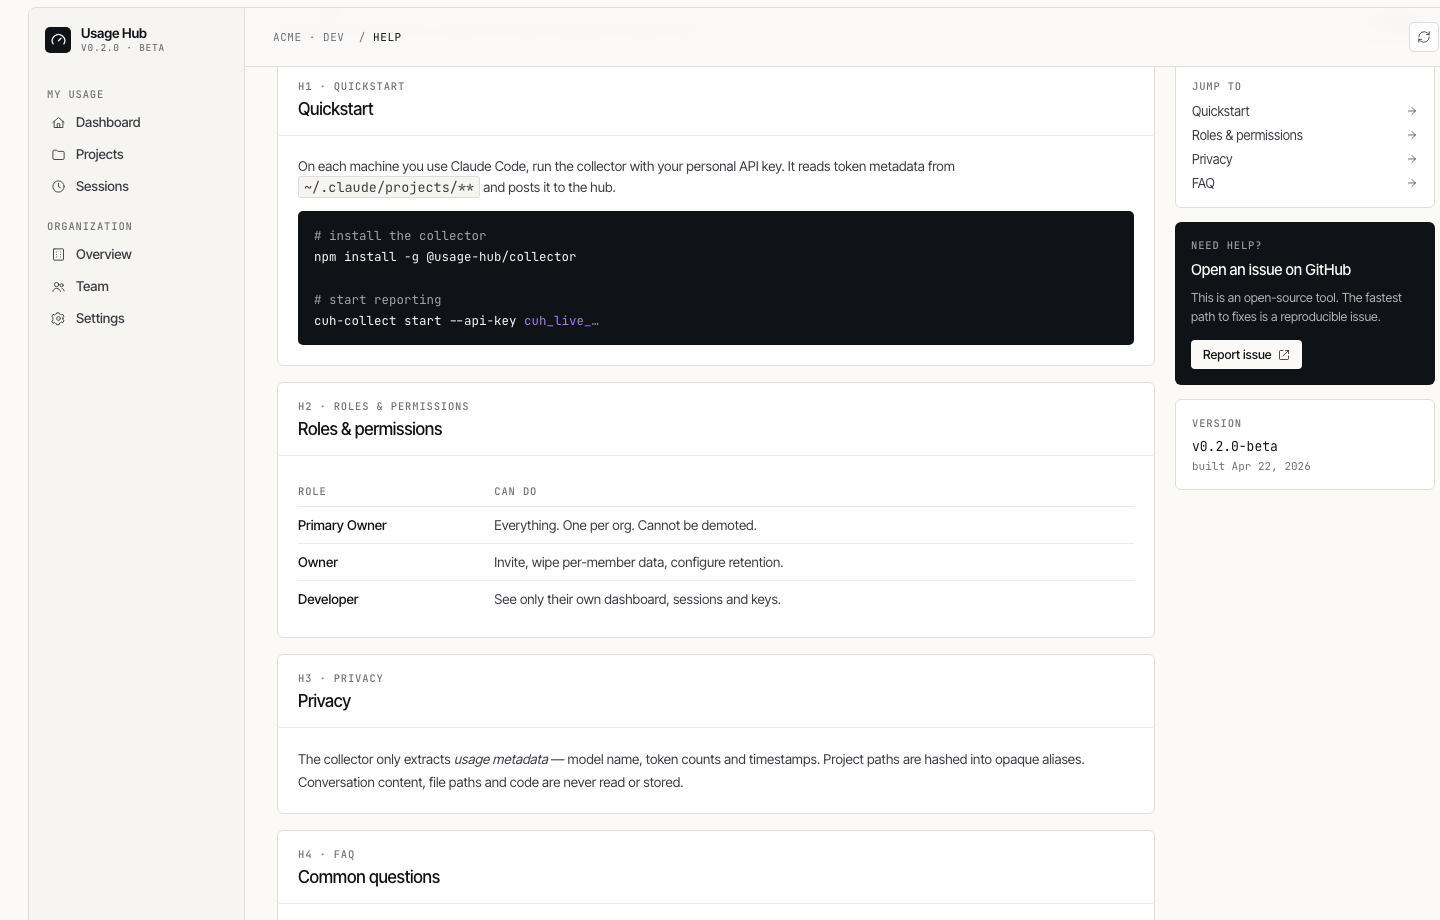
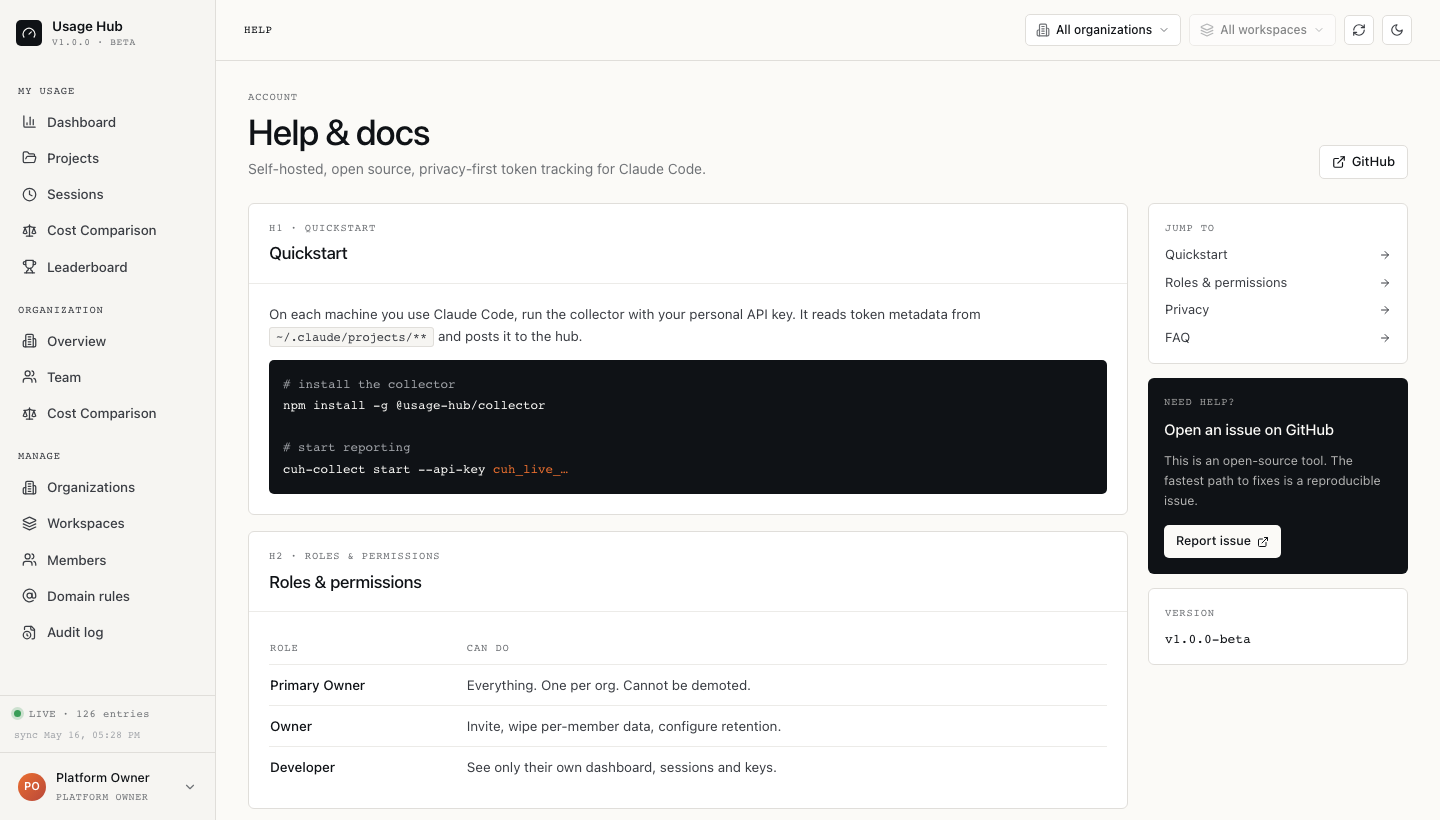
docs: refresh screenshots and README for v1.0.0
- Retake all screenshots via Playwright against the E2E environment
  (real seeded data, v1.0.0 sidebar badge, Signal UI)
- Add new screenshots: leaderboard (light+dark), cost comparison (light+dark)
- Update README features list: leaderboard, cost comparison, multi-org,
  workspaces, domain rules, audit log, password login fallback
- Add E2E testing instructions to Development section
- Update Tech Stack table to include Playwright
- Remove completed "Audit log" from roadmap

diff --git a/packages/e2e/take-screenshots.ts b/packages/e2e/take-screenshots.ts
@@ -1,0 +1,99 @@
+/**
+ * Screenshot script — run with:
+ *   pnpm e2e:up && npx ts-node take-screenshots.ts
+ *
+ * Generates fresh docs/screenshots/*.png from the live E2E environment.
+ */
+import { chromium } from '@playwright/test';
+import path from 'path';
+import fs from 'fs';
+
+const BASE = process.env['E2E_BASE_URL'] ?? 'http://localhost:8081';
+const ADMIN_EMAIL = process.env['E2E_ADMIN_EMAIL'] ?? 'admin@test.local';
+const ADMIN_PASSWORD = process.env['E2E_ADMIN_PASSWORD'] ?? 'test1234';
+const OUT = path.join(__dirname, '../../docs/screenshots');
+
+async function login(page: import('@playwright/test').Page) {
+  await page.goto(`${BASE}/login`);
+  await page.waitForSelector('[data-testid="password-form"]');
+  await page.fill('[data-testid="email-input"]', ADMIN_EMAIL);
+  await page.fill('[data-testid="password-input"]', ADMIN_PASSWORD);
+  await page.click('[data-testid="login-submit"]');
+  await page.waitForURL(`${BASE}/`, { timeout: 10_000 });
+}
+
+async function shot(page: import('@playwright/test').Page, name: string) {
+  // Brief settle time for charts / animations
+  await page.waitForTimeout(800);
+  await page.screenshot({ path: path.join(OUT, `${name}.png`), fullPage: false });
+  console.log(`  ✓ ${name}.png`);
+}
+
+async function setTheme(page: import('@playwright/test').Page, dark: boolean) {
+  await page.evaluate((d) => {
+    document.documentElement.classList.toggle('dark', d);
+    localStorage.setItem('theme', d ? 'dark' : 'light');
+  }, dark);
+  await page.waitForTimeout(200);
+}
+
+(async () => {
+  fs.mkdirSync(OUT, { recursive: true });
+
+  const browser = await chromium.launch();
+  const ctx = await browser.newContext({ viewport: { width: 1440, height: 820 } });
+  const page = await ctx.newPage();
+
+  console.log('\nLogging in...');
+  await login(page);
+
+  // ── Light mode screenshots ─────────────────────────────────────────────────
+  await setTheme(page, false);
+
+  console.log('\nLight mode:');
+  await page.goto(`${BASE}/`);
+  await shot(page, 'dashboard-light');
+
+  await page.goto(`${BASE}/sessions`);
+  await shot(page, 'sessions-light');
+
+  await page.goto(`${BASE}/projects`);
+  await shot(page, 'projects-light');
+
+  await page.goto(`${BASE}/leaderboard`);
+  await shot(page, 'leaderboard-light');
+
+  await page.goto(`${BASE}/cost-comparison`);
+  await shot(page, 'cost-comparison-light');
+
+  await page.goto(`${BASE}/admin/org`);
+  await shot(page, 'org-light');
+
+  await page.goto(`${BASE}/admin/team`);
+  await shot(page, 'team-light');
+
+  await page.goto(`${BASE}/profile`);
+  await shot(page, 'profile-light');
+
+  await page.goto(`${BASE}/admin/settings`);
+  await shot(page, 'settings-light');
+
+  await page.goto(`${BASE}/help`);
+  await shot(page, 'help-light');
+
+  // ── Dark mode screenshots ──────────────────────────────────────────────────
+  await setTheme(page, true);
+
+  console.log('\nDark mode:');
+  await page.goto(`${BASE}/`);
+  await shot(page, 'dashboard-dark');
+
+  await page.goto(`${BASE}/leaderboard`);
+  await shot(page, 'leaderboard-dark');
+
+  await page.goto(`${BASE}/cost-comparison`);
+  await shot(page, 'cost-comparison-dark');
+
+  await browser.close();
+  console.log('\nDone. Screenshots saved to docs/screenshots/\n');
+})();

diff --git a/README.md b/README.md
@@ -2,13 +2,21 @@
 
 A self-hosted, open-source tool for monitoring Claude Code token usage across your entire team. Track token consumption, cost breakdowns, and per-developer visibility — all from a central web dashboard.
 
-> **v1.0.0** — Multi-org support, workspaces, team leaderboard, cost comparison, and the Signal UI redesign.
+> **v1.0.0** — Multi-org support, workspaces, role hierarchy, team leaderboard, cost comparison, and the Signal UI redesign.
 
 ## Screenshots
 
 ### Dashboard
 ![Dashboard — Light](docs/screenshots/dashboard-light.png)
 ![Dashboard — Dark](docs/screenshots/dashboard-dark.png)
+
+### Leaderboard
+![Leaderboard — Light](docs/screenshots/leaderboard-light.png)
+![Leaderboard — Dark](docs/screenshots/leaderboard-dark.png)
+
+### Cost Comparison
+![Cost Comparison — Light](docs/screenshots/cost-comparison-light.png)
+![Cost Comparison — Dark](docs/screenshots/cost-comparison-dark.png)
 
 ### Sessions
 ![Sessions](docs/screenshots/sessions-light.png)
@@ -27,29 +35,36 @@ A self-hosted, open-source tool for monitoring Claude Code token usage across yo
 
 ## Features
 
-### Both modes
+### Personal usage (all modes)
 - **Token analytics** — input, output, cache creation, cache read broken down by model
 - **Cost estimation** — based on official Anthropic pricing (Opus 4.6, Sonnet 4.6, Haiku 4.5)
+- **Cost comparison** — see what your usage would have cost at each model tier; break-even analysis
 - **Session & project tracking** — opaque aliases protect actual file paths and content
 - **Multiple time ranges** — 5h / 24h / 7d / 30d / all-time
 - **Dark / light mode** — follows system preference, manually toggleable
 - **Privacy-first** — no conversation content is ever read or stored
 
 ### Team mode
-- **Google OAuth** — restricted to your org domain
-- **Role-based access** — Primary Owner / Owner / Developer
+- **Team leaderboard** — all members see each other ranked by token consumption; top 3 get gold/silver/bronze indicators; current user highlighted
+- **Google OAuth** — sign-in restricted to your configured org domain
+- **Password login fallback** — when Google OAuth is not configured, a username/password form is shown (useful for Docker-only setups)
+- **Role-based access** — Platform Owner / Platform Admin / Developer
+- **Multi-organization support** — create and manage multiple organizations with independent member lists and usage scopes
+- **Workspaces** — subdivide organizations into workspaces; usage data scoped accordingly
 - **Invite links** — 7-day one-time invite URLs, role assigned at invite time
+- **Domain rules** — auto-assign new Google sign-ins to an org/workspace based on email domain
 - **Per-developer dashboard** — owners see all members, developers see their own data
 - **Per-machine tracking** — each API key tracked independently
 - **Data management** — owners can wipe per-member or per-machine usage data
 - **Data retention** — configurable automatic pruning
+- **Audit log** — full history of role changes, invites, and admin actions
 
 ## Modes
 
 | | Local | Team |
 |---|---|---|
 | Who sees data | You | Everyone (scoped by role) |
-| Auth | None | Google OAuth (org domain) |
+| Auth | None | Google OAuth or password |
 | Collector setup | Auto (same machine) | API key per machine |
 | Deployment | `pnpm start` | Docker + env vars |
 
@@ -114,6 +129,7 @@ flowchart TB
 | Frontend | React + Vite + Tailwind CSS + Recharts + TanStack Query |
 | Design | oklch color tokens, Inter Tight + JetBrains Mono |
 | Deployment | Docker multi-stage build |
+| Testing | Vitest (unit) + Playwright (E2E) |
 
 ## Privacy
 
@@ -144,8 +160,17 @@ pnpm build
 cd packages/server && pnpm dev     # Hono on :8080
 cd packages/dashboard && pnpm dev  # Vite on :5173 (proxies /api to :8080)
 
-# Tests
+# Unit tests
 pnpm test
+
+# E2E tests (requires Docker)
+pnpm e2e:build   # build image once
+pnpm e2e:up      # start test environment on :8081
+pnpm e2e         # run 44 Playwright tests (~30s)
+pnpm e2e:down    # tear down + delete test DB
+
+# All-in-one E2E
+pnpm e2e:ci
 ```
 
 ## Roadmap
@@ -154,7 +179,6 @@ pnpm test
 - [ ] Email / Slack alerts for usage thresholds
 - [ ] Mobile-responsive layout
 - [ ] Usage budget limits per developer
-- [ ] Audit log for admin actions
 
 ## License
 
